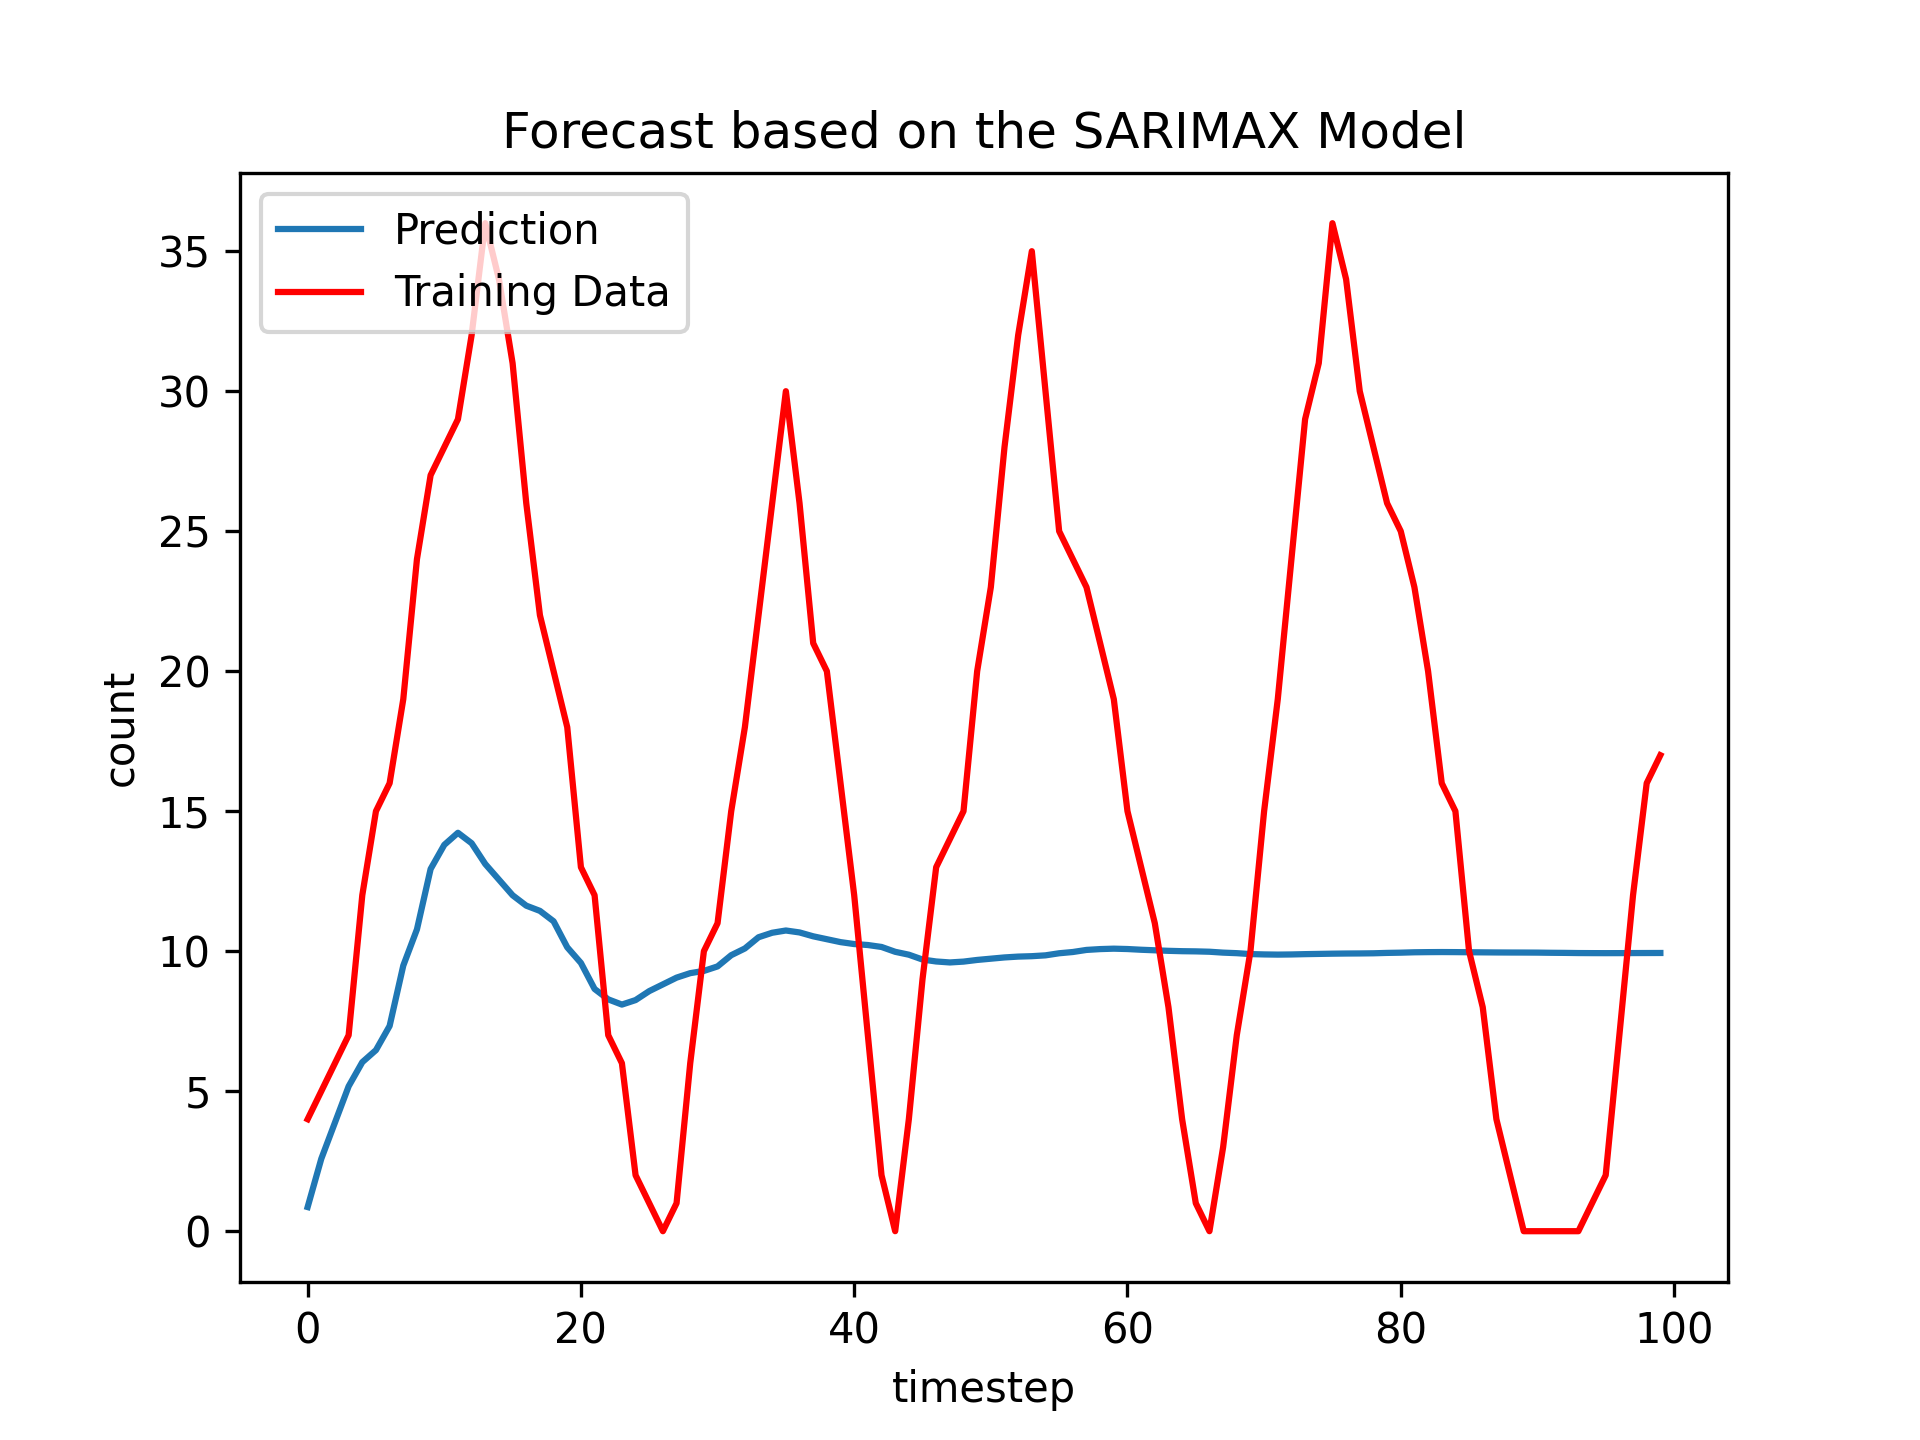
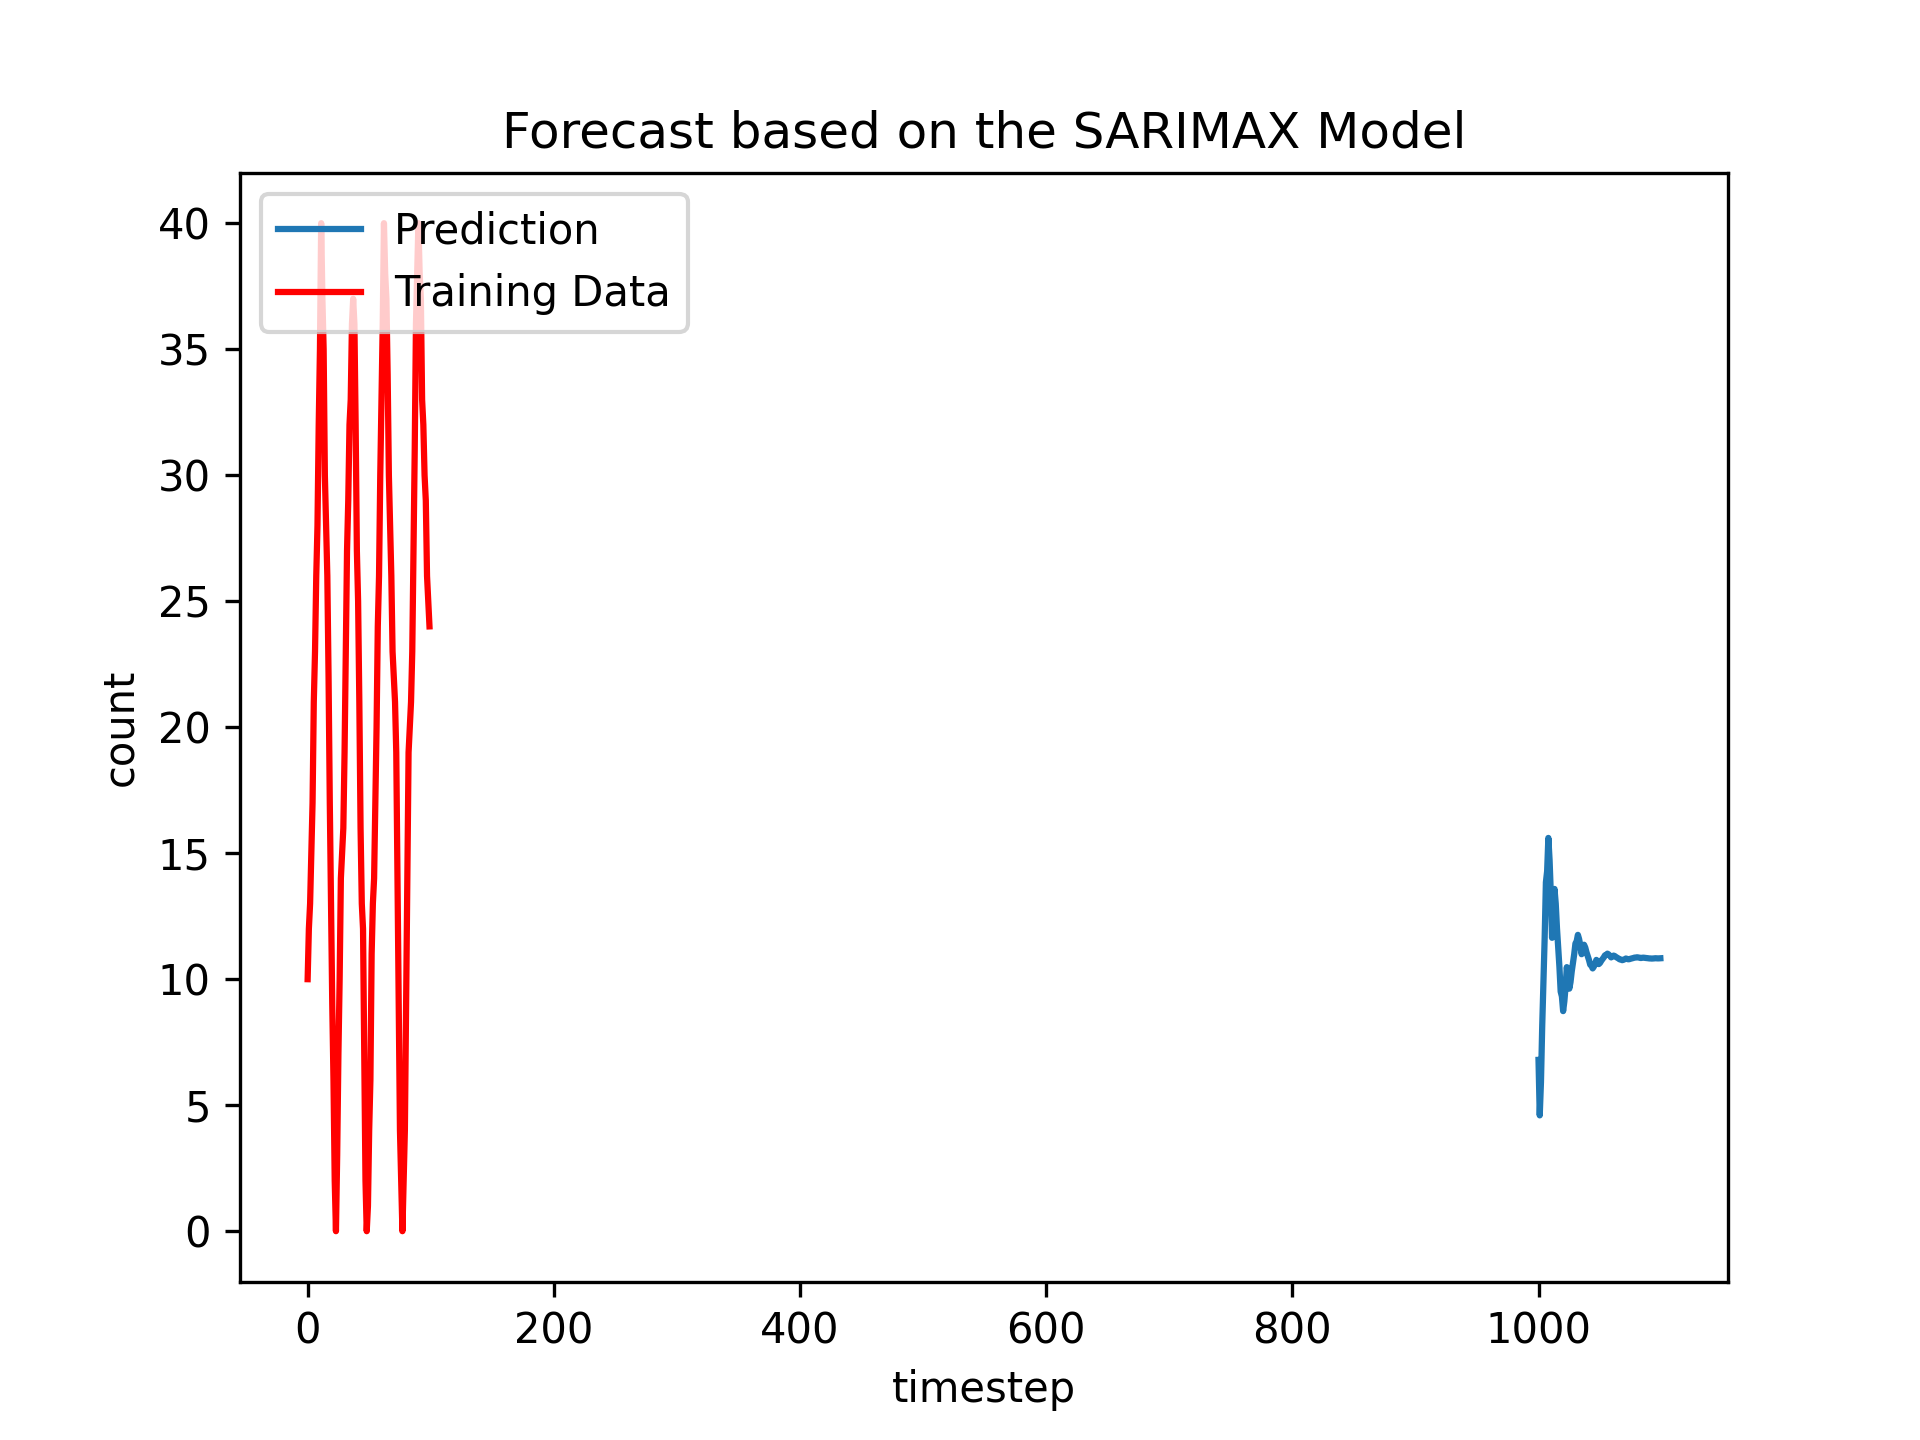
add neural network

diff --git a/forecaster.py b/forecaster.py
@@ -1,14 +1,27 @@
 import pandas
 import mchmm as mc
+from pandas import DataFrame
 from sklearn.linear_model import LinearRegression
+from sklearn.model_selection import cross_val_score
+from sklearn.model_selection import StratifiedKFold
+from sklearn.linear_model import LogisticRegression
+from sklearn.preprocessing import MinMaxScaler
+from sklearn.tree import DecisionTreeClassifier
+from sklearn.neighbors import KNeighborsClassifier
+from sklearn.discriminant_analysis import LinearDiscriminantAnalysis
+from sklearn.naive_bayes import GaussianNB
+from sklearn.svm import SVC
 import numpy as np
 import matplotlib.pyplot as pp
 import statsmodels.api as sm
 import accuracy
 import datetime
+from keras.models import Sequential
+from keras.layers import LSTM, Dense, Dropout, Masking, Embedding
+import tensorflow
 
 
-def dateparse (time_in_secs):
+def dateparse(time_in_secs):
     return datetime.datetime.fromtimestamp(float(time_in_secs))
 
 
@@ -16,6 +29,8 @@ def read_data(filepath):
     f = open(filepath, 'r')
     df = pandas.read_csv(f, delimiter=', ', engine='python', parse_dates=True,
                          date_parser=dateparse, index_col='timestamp')
+    # with pandas.option_context('display.max_rows', None, 'display.max_columns', None):  # more options can be specified also
+    # print(df)
     return df
 
 
@@ -31,50 +46,122 @@ def plot(filepath, predictions, title, trainingdata=None):
     pp.clf()
 
 
-def forecast_markov(n, trainingdata):
+def forecast_markov(trainingdata, evaldata):
+    n = len(evaldata)
     mod = mc.MarkovChain().from_data(trainingdata['count'])
-    ids, states = mod.simulate(n, start=0)
+    print(evaldata['count'][0])
+    ids, states = mod.simulate(n, start=10)
     plot(f'markov_{n}.png', states, 'Forecast based on Markov Chains',
-         trainingdata.head(n))
+         evaldata)
     print('Accuracy Scores for Markov Chains:')
-    accuracy.eval_model(states, 1, trainingdata['count'].head(n).values)
+    accuracy.eval_model(states, 1, evaldata['count'].values)
 
 
-def forecast_linear_reg(n, trainingdata):
-    x = np.array(trainingdata['timestamp']).reshape((-1,1))
+def forecast_linear_reg(trainingdata, evaldata):
+    n = len(evaldata)
+    x = np.array(trainingdata['timestamp']).reshape((-1, 1))
     y = np.array(trainingdata['count'])
     model = LinearRegression().fit(x, y)
     predictions = model.predict(x[:n])
     plot(f'linear_reg_{n}.png', predictions,
-         'Forecast based on Linear Regression (OLS)', trainingdata.head(n))
+         'Forecast based on Linear Regression (OLS)', evaldata)
     print('Summary')
-    print(f'Coefficient of Determination: {model.score(x,y)}')
+    print(f'Coefficient of Determination: {model.score(x, y)}')
     print(f'Function: {model.coef_}t + {model.intercept_}')
     print('Accuracy Scores for OLS:')
-    accuracy.eval_model(predictions, 1, trainingdata['count'].head(n).values)
+    accuracy.eval_model(predictions, 1, evaldata['count'].values)
 
 
-def forecast_sarimax(n, trainingdata):
-    mod = sm.tsa.statespace.SARIMAX(trainingdata['count'].astype(float), order=(0, 1, 0), seasonal_order=(1,0,0,12),
+def forecast_sarimax(trainingdata, evaldata):
+    n = len(evaldata)
+    mod = sm.tsa.statespace.SARIMAX(trainingdata['count'].astype(float), order=(0, 1, 0), seasonal_order=(1, 0, 0, 12),
                                     enforce_stationarity=False)
     res = mod.fit(disp=False)
     print(res.summary())
-    predictions = res.forecast(n).values
-    print(type(predictions))
-    accuracy.eval_model(predictions, 1, trainingdata['count'].head(n).values)
+    predictions = res.forecast(n)
+    print(predictions)
+    print(evaldata)
+    accuracy.eval_model(predictions, 1, evaldata['count'].values)
     plot(f'sarimax_{n}.png', predictions,
-         'Forecast based on the SARIMAX Model', trainingdata.head(n))
+         'Forecast based on the SARIMAX Model', evaldata)
 
-def remove_seasonality(trainingdata):
-    resample = trainingdata.resample('M')
-    monthly_mean = resample.mean()
-    print(monthly_mean.head(13))
-    monthly_mean.plot()
-    pp.savefig('no_seasonality')
+
+def forecast_machine(trainingdata, evaldata):
+    # Create the model from scratch
+    models = []
+    models.append(('LR', LogisticRegression(solver='liblinear', multi_class='ovr')))
+    models.append(('LDA', LinearDiscriminantAnalysis()))
+    models.append(('KNN', KNeighborsClassifier()))
+    models.append(('CART', DecisionTreeClassifier()))
+    models.append(('NB', GaussianNB()))
+    models.append(('SVM', SVC(gamma='auto')))
+    # evaluate each model in turn
+    results = []
+    names = []
+    for name, model in models:
+        kfold = StratifiedKFold(n_splits=10, random_state=1, shuffle=True)  # FIXME
+        cv_results = cross_val_score(model, trainingdata['count'],
+                                     cv=kfold, scoring='accuracy')
+        results.append(cv_results)
+        names.append(name)
+        print('%s: %f (%f)' % (name, cv_results.mean(), cv_results.std()))
+
+
+def forecast_neural(trainingdata, evaldata):
+    scaler = MinMaxScaler(feature_range=(0, 1))
+    dataset = scaler.fit_transform(np.array(trainingdata['count'].astype(float)).reshape(-1, 1))
+    validationset = scaler.fit_transform(np.array(evaldata['count'].astype(float)).reshape(-1, 1))
+    look_back = 1
+    trainX, trainY = create_dataset(dataset, look_back)
+    testX, testY = create_dataset(validationset, look_back)
+    trainX = np.reshape(trainX, (trainX.shape[0], 1, trainX.shape[1]))
+    testX = np.reshape(testX, (testX.shape[0], 1, testX.shape[1]))
+
+    model = Sequential()
+    model.add(LSTM(4, input_shape=(1, look_back)))
+    model.add(Dense(1))
+    model.compile(loss='mean_squared_error', optimizer='adam')
+    model.fit(trainX, trainY, epochs=100, batch_size=1, verbose=2)
+    model.save()
+
+    # make predictions
+    trainPredict = model.predict(trainX)
+    testPredict = model.predict(testX)
+    # invert predictions
+    trainPredict = scaler.inverse_transform(trainPredict)
+    trainY = scaler.inverse_transform([trainY])
+    testPredict = scaler.inverse_transform(testPredict)
+    testY = scaler.inverse_transform([testY])
+    print(np.shape(trainY))
+    print(np.shape(trainPredict))
+    accuracy.eval_model(trainY[0], 1, trainPredict[:,0])
+    accuracy.eval_model(testY[0], 1, testPredict[:,0])
+
+def create_dataset(dataset, look_back=1):
+    dataX, dataY = [], []
+    for i in range(len(dataset) - look_back - 1):
+        a = dataset[i:(i + look_back), 0]
+        dataX.append(a)
+        dataY.append(dataset[i + look_back, 0])
+    return np.array(dataX), np.array(dataY)
+
+
+def create_sequences(dataset):
+    training_length = 50
+    features = []
+    for i in range(training_length, len(trainingdata)):
+        extract = dataset[i - training_length:i + 1]
+        features.append(extract[:-1])
+    features = np.array(features)
+    return features
 
 data = read_data('KafkaTrainingData.txt')
+train = data.iloc[:1000]
+# print(collections.Counter(train['count']))
+validation = data.iloc[1000:1100]
 # plot('trainingdata100.png', trainingdata['count'].head(100))
-# forecast_markov(50, data)
+# forecast_markov(train, validation)
 # forecast_linear_reg(50, data)
-
-forecast_sarimax(100, data)
+# forecast_sarimax(train, validation)
+forecast_neural(train, validation)
+# forecast_machine(train, validation)

diff --git a/accuracy.py b/accuracy.py
@@ -39,8 +39,8 @@ def eval_model(model, pred_step, counts):
     conf = 0.95
 
     print("Total Values: {}".format(min(len(model), len(counts))))
-    print("Model Input: {}".format(model))
-    print("Measured Data: {}".format(counts))
+    print("Forecast: {}".format(model))
+    print("Validation Set: {}".format(counts))
     print()
 
     mae = mean_absolute_error(model, counts)
